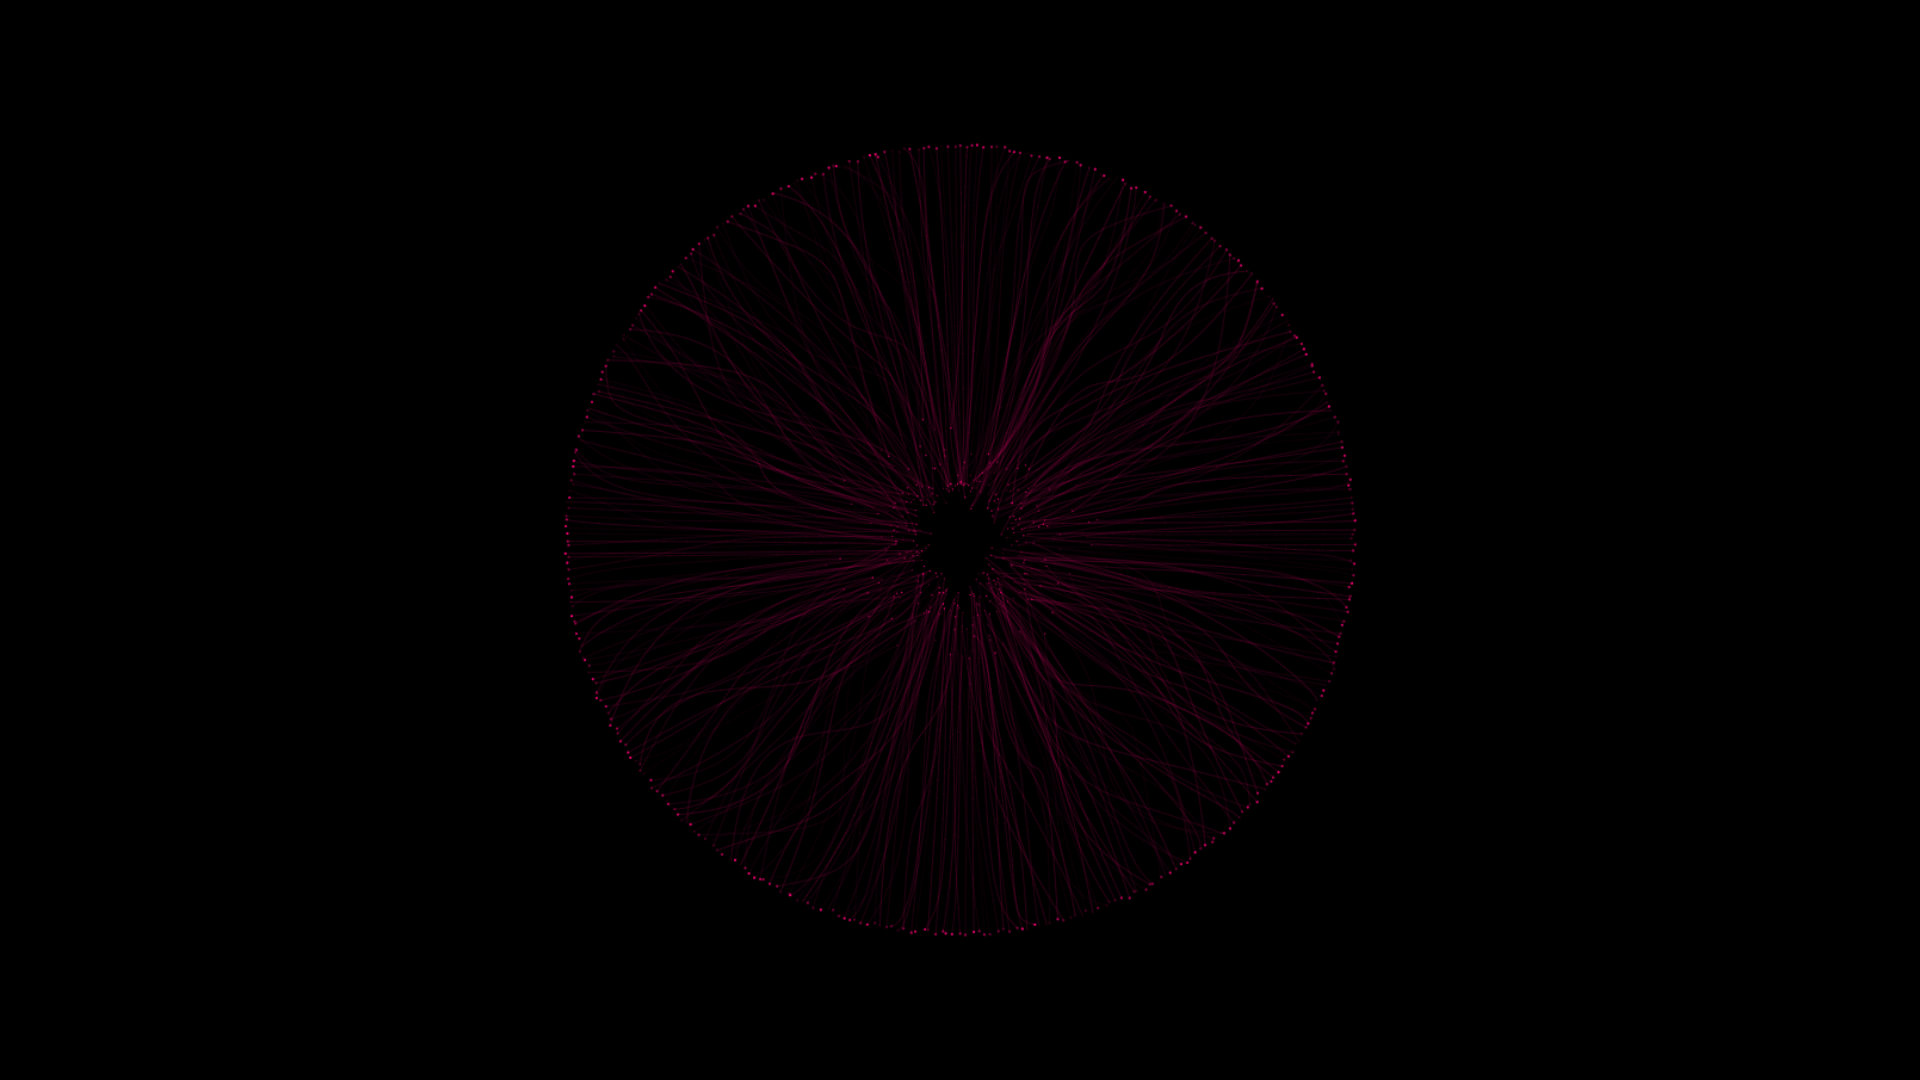
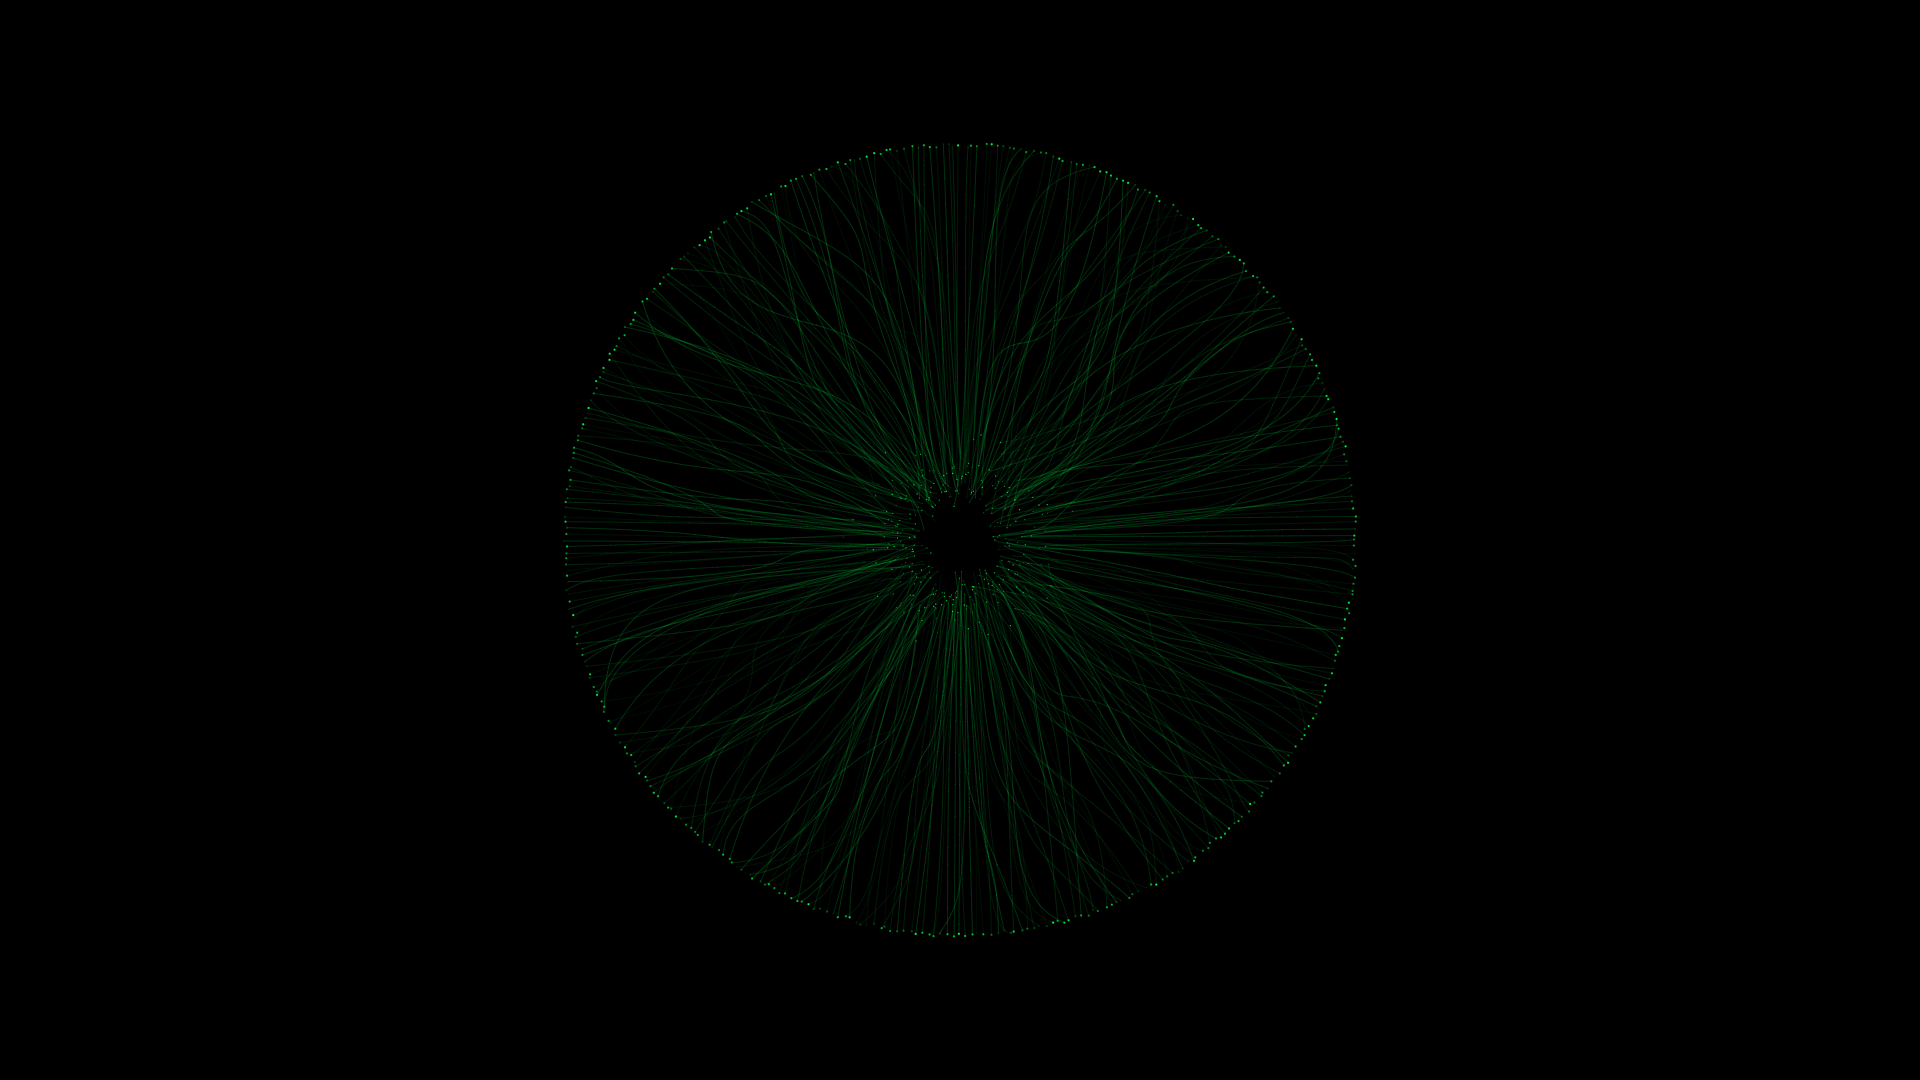
Updated Orb colors.

Changed region(s): [[0.2812, 0.1222, 0.7188, 0.8861]]

diff --git a/orb/classes/Particle.js b/orb/classes/Particle.js
@@ -28,7 +28,7 @@ export default class Particle {
     context.arc(this.position.x, this.position.y, this.radius, 0, 2 * Math.PI)
     context.closePath()
 
-    context.fillStyle = '#f10071'
+    context.fillStyle = '#00ff48'
     context.fill()
 
     context.globalAlpha = 1

diff --git a/orb/classes/Line.js b/orb/classes/Line.js
@@ -50,7 +50,7 @@ export default class Line {
     this.update()
 
     context.strokeWidth = 1
-    context.strokeStyle = '#f10071'
+    context.strokeStyle = '#00ff48'
     context.globalAlpha = this.opacity
 
     context.beginPath()
